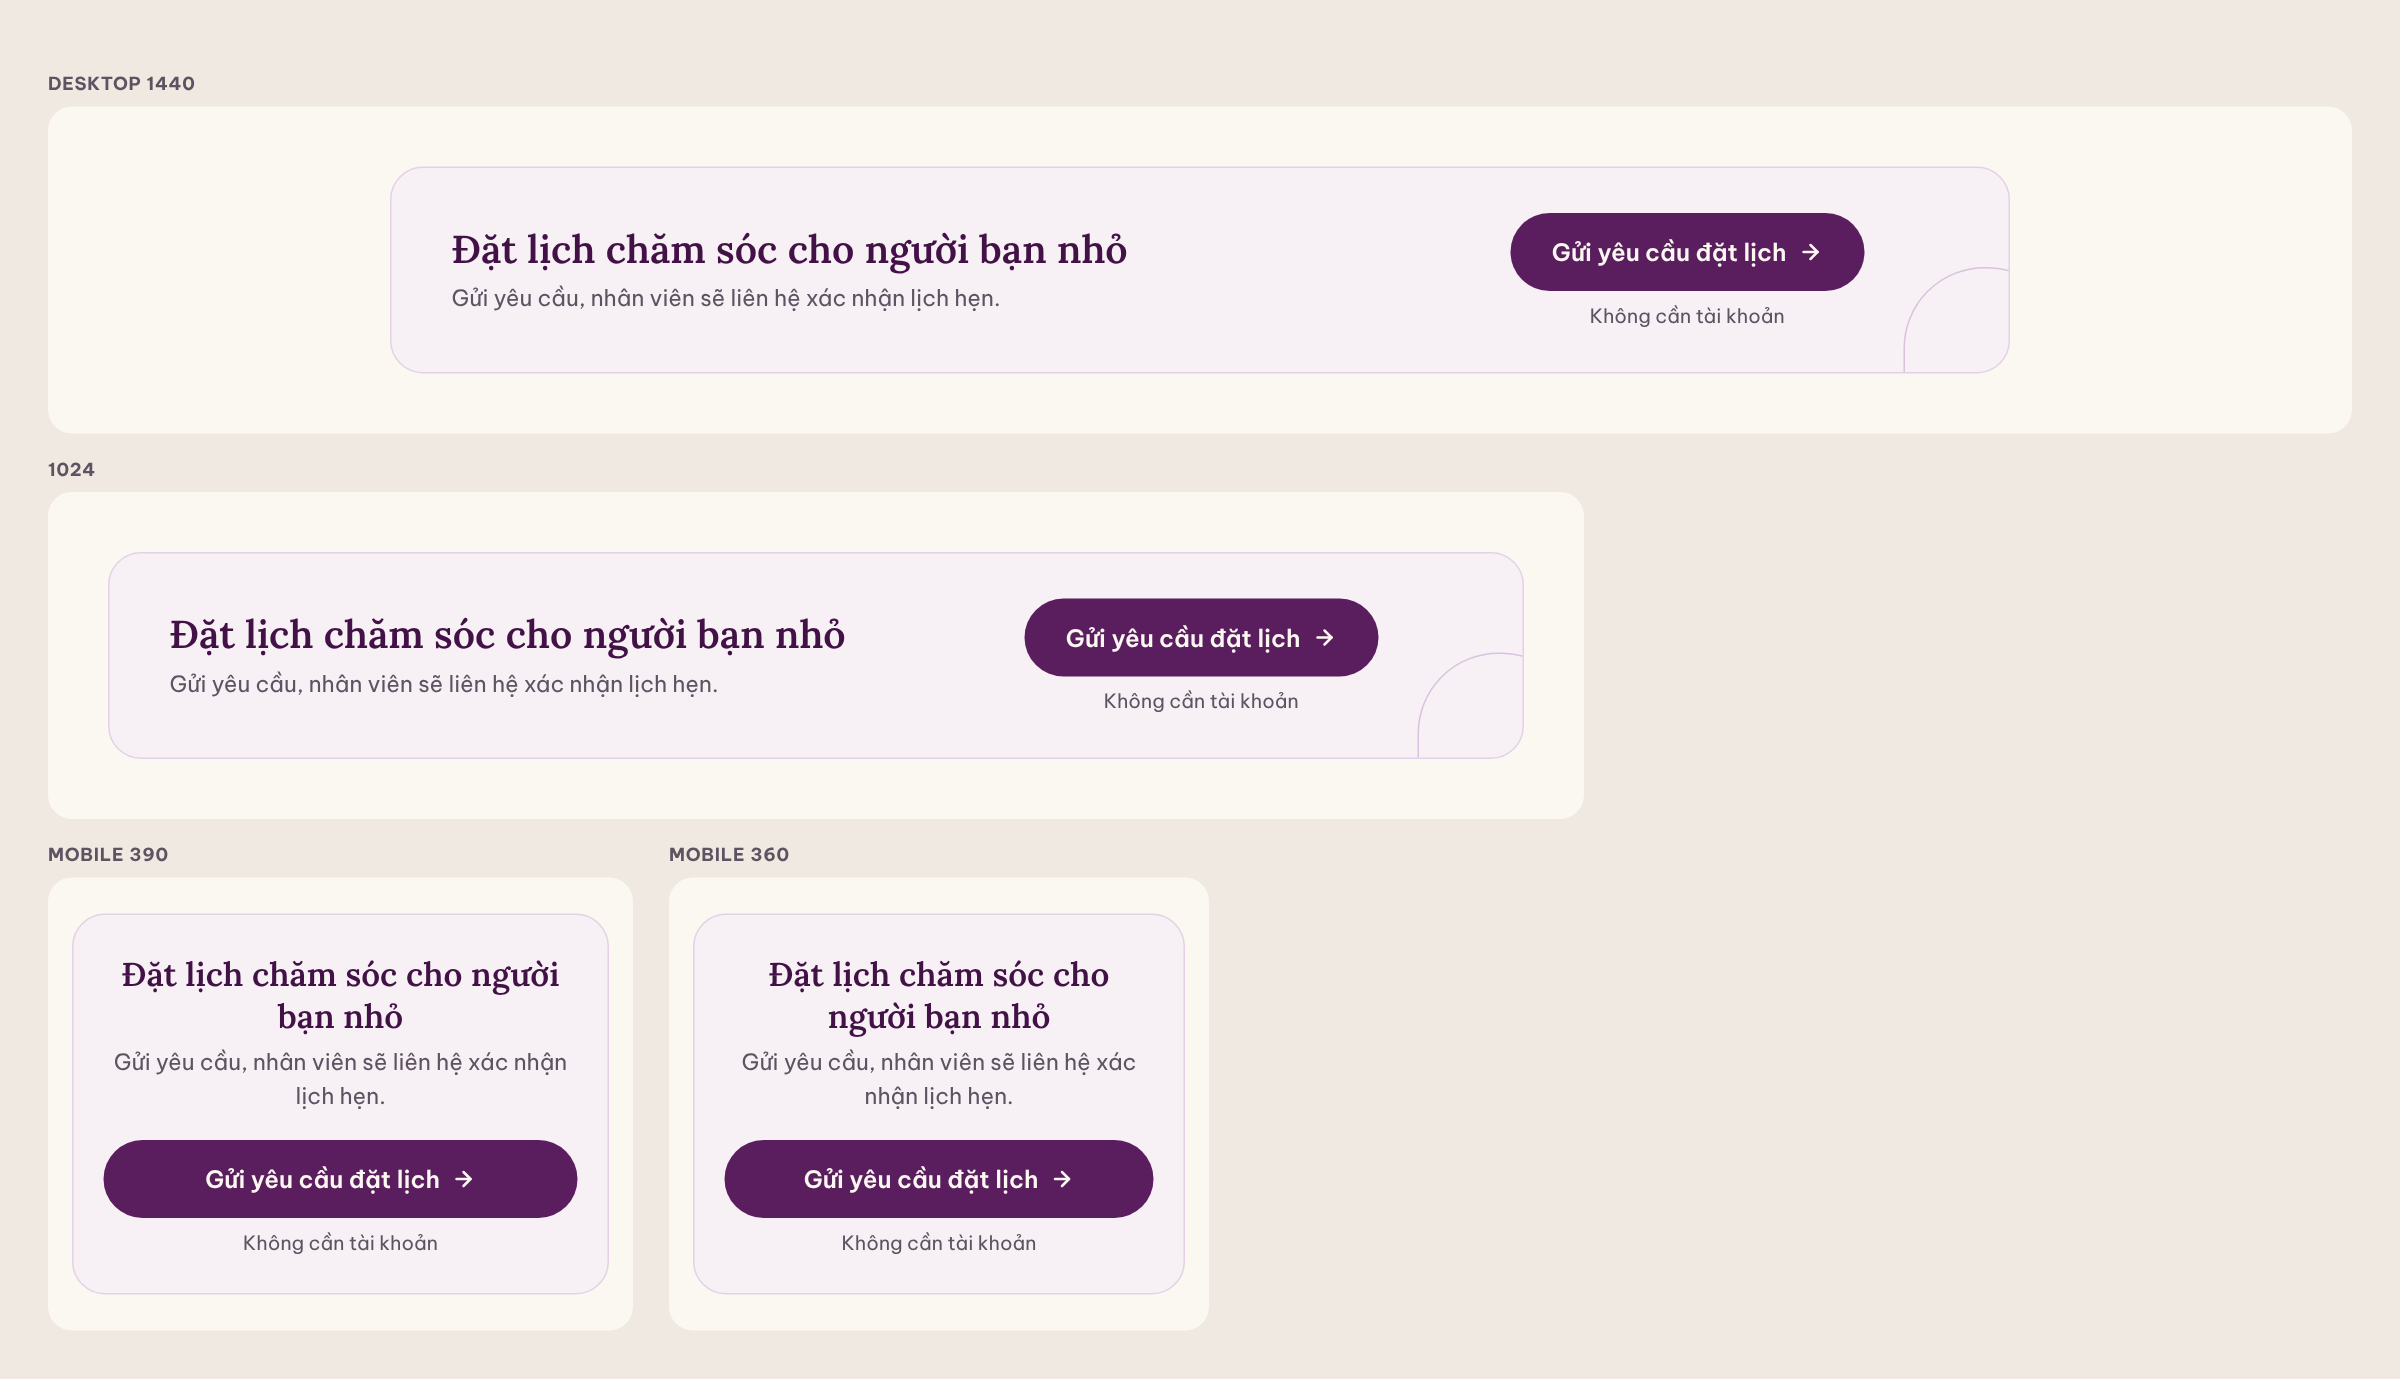
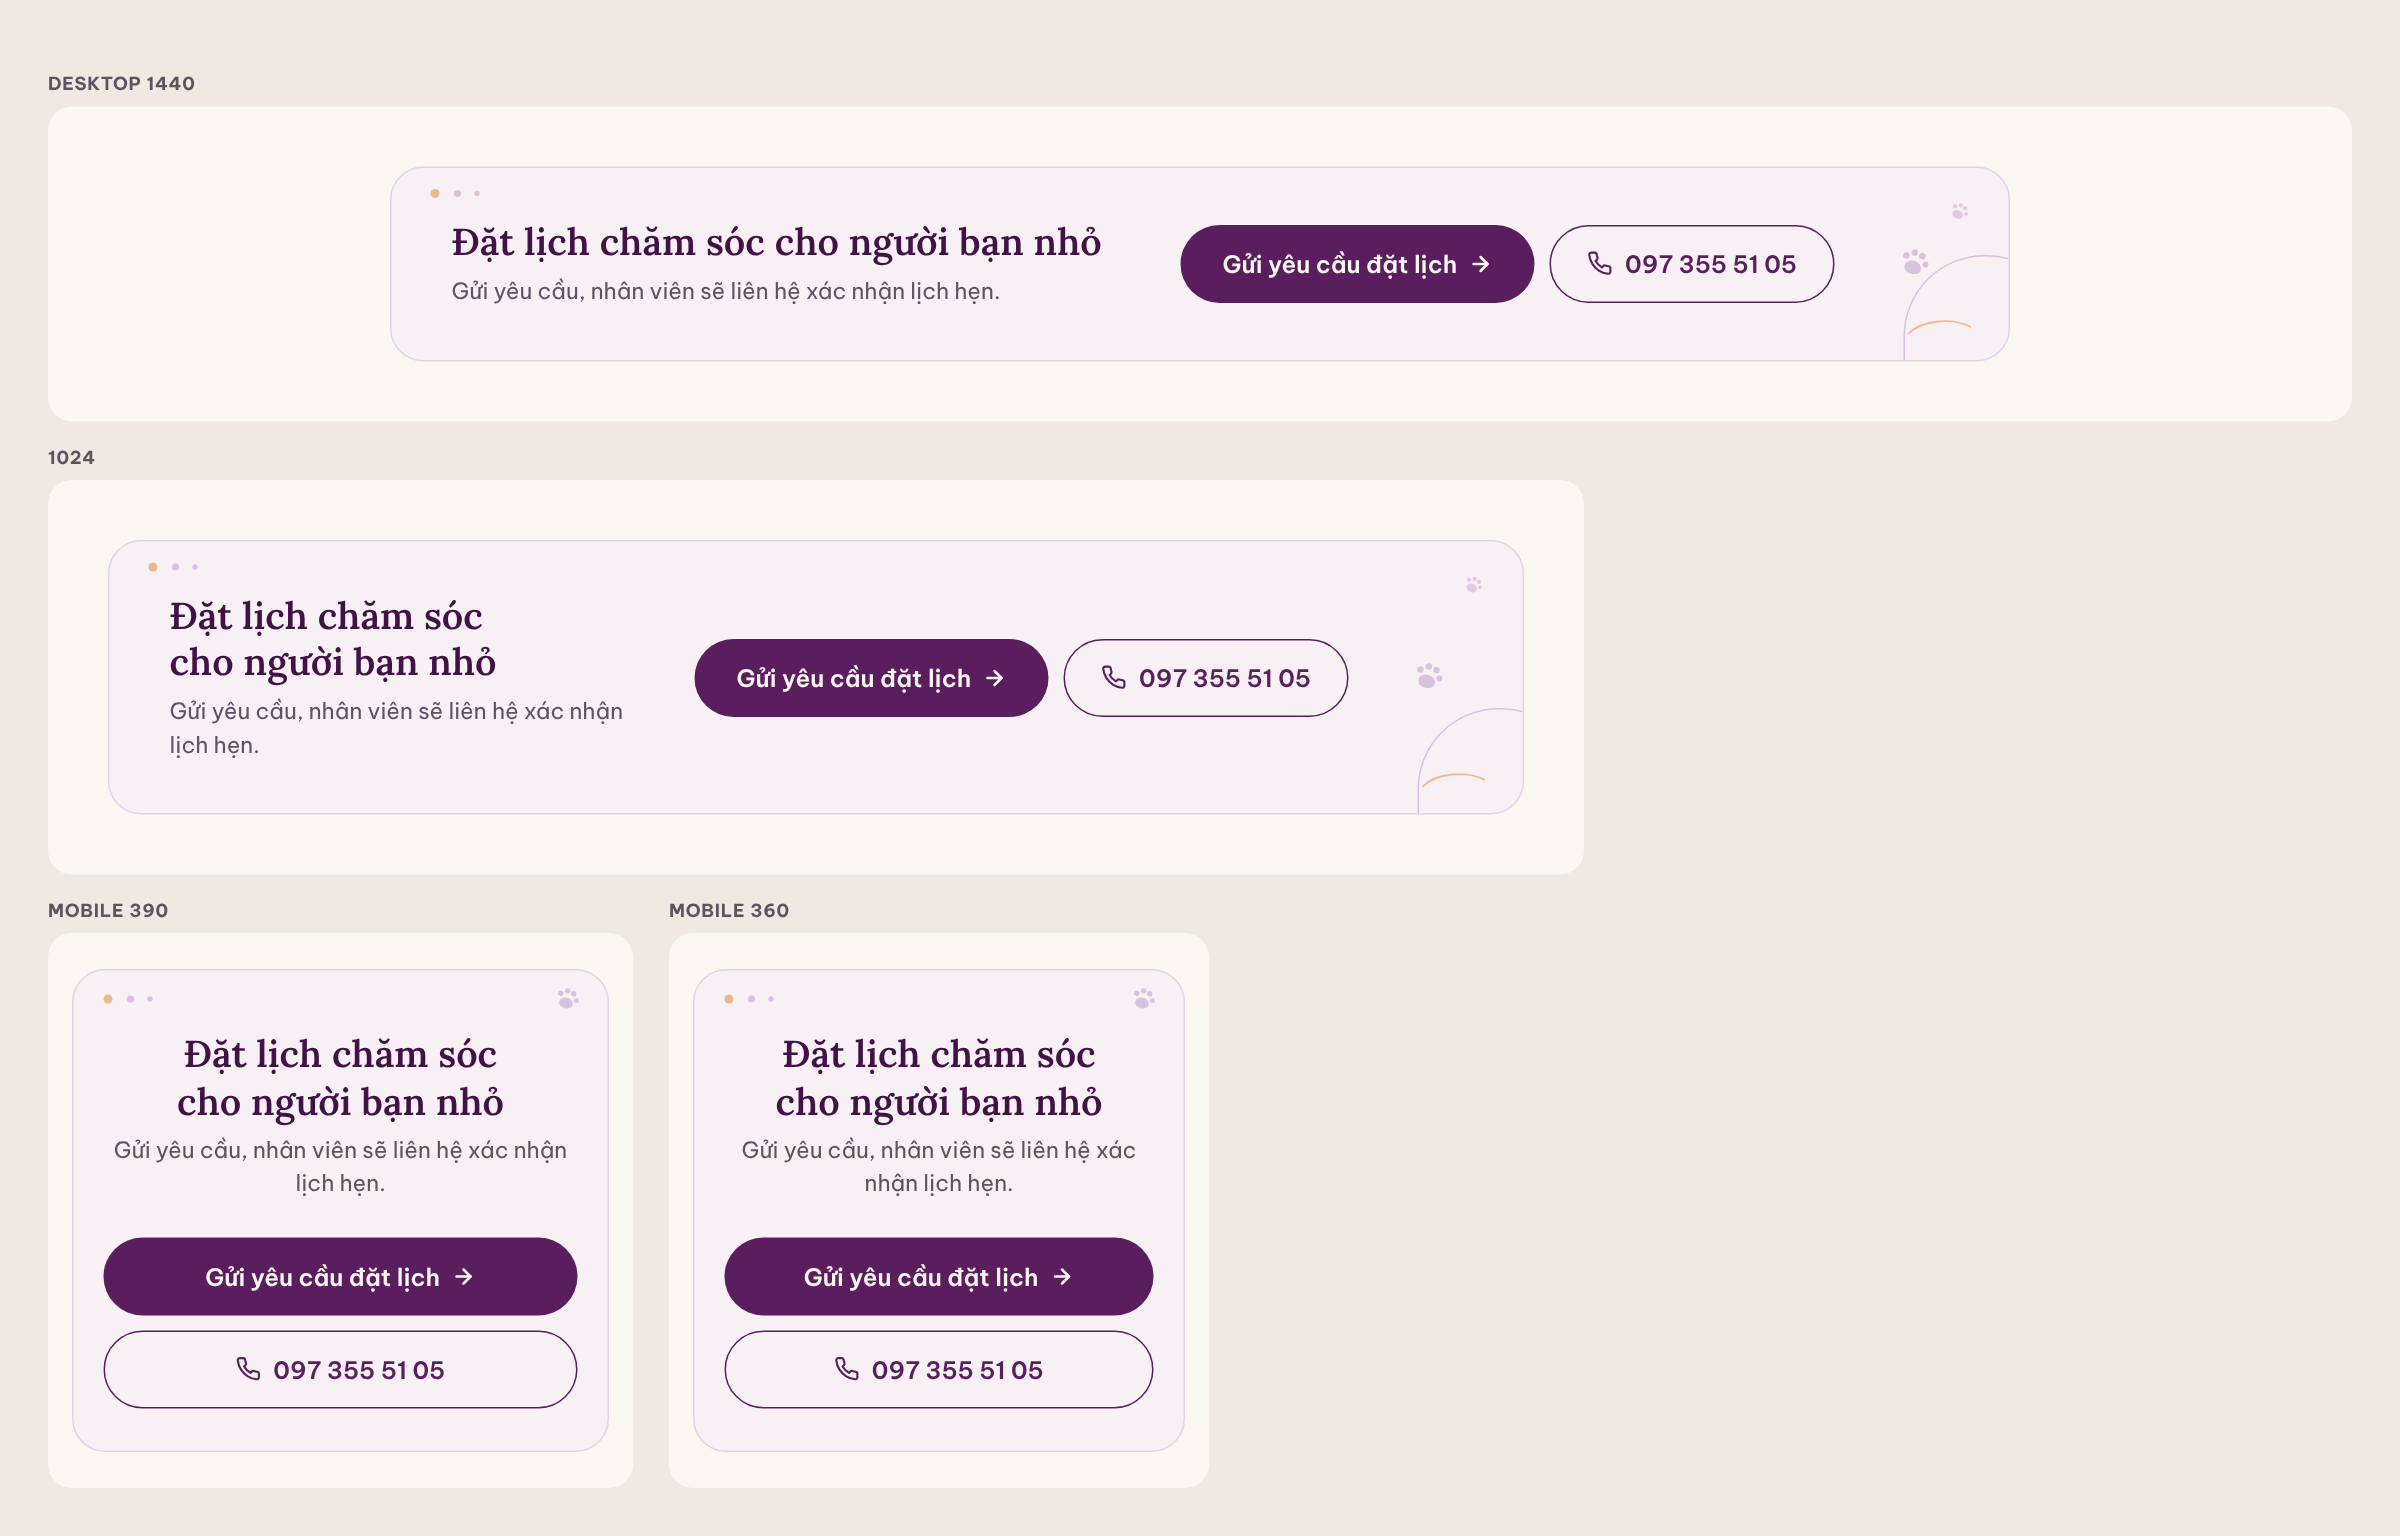
docs: minh hoa CTA Dich vu cap nhat (bo ghi chu, them nut Goi, diem trang tri nho)
Claude-Session: https://claude.ai/code/session_01RdR2xeeUL4Rz15FkyvBsuM

diff --git a/docs/de-xuat-cta-dich-vu/cta-chot-15-10.html b/docs/de-xuat-cta-dich-vu/cta-chot-15-10.html
@@ -20,9 +20,22 @@
 .cta-btn:focus-visible{outline:3px solid var(--pd);outline-offset:3px}
 .cta-note{font-size:13px;color:var(--sub)}
 @container (max-width:700px){.cta{flex-direction:column;align-items:stretch;text-align:center;padding:26px 20px;gap:18px}.cta-title{font-size:22px}.cta-act{margin-right:0}.cta-btn{width:100%;min-height:52px}.cta::after{display:none}}
+.cta-act{flex-direction:row!important;align-items:center}
+.cta-btn2{display:inline-flex;align-items:center;justify-content:center;gap:8px;min-height:52px;padding:0 24px;border-radius:999px;border:1.5px solid var(--p);color:var(--p);background:transparent;font-weight:600;font-size:16px;text-decoration:none;white-space:nowrap;transition:background .2s}
+.cta-btn2 svg{width:17px;height:17px}
+@media(hover:hover){.cta-btn2:hover{background:rgba(90,30,94,.06)}}
+.cta-btn2:focus-visible{outline:3px solid var(--pd);outline-offset:3px}
+.deco{position:absolute;pointer-events:none;z-index:0}
+.deco-paw{right:52px;top:50%;margin-top:-12px;width:22px;fill:#D9C2DD;transform:rotate(14deg)}
+.deco-paw.s{right:26px;top:22px;margin-top:0;width:14px;transform:rotate(24deg);opacity:.8}
+.deco-dots{left:24px;top:12px;width:46px;height:10px}
+.deco-arc{right:24px;bottom:16px;width:44px;height:14px}
+.cta{padding-top:34px!important;padding-bottom:34px!important}
+.cta-act{margin-right:76px!important;gap:10px!important}.cta-text{flex:1}.cta-title{font-size:25px!important;text-wrap:balance}.cta{gap:24px!important}
+@container (max-width:700px){.cta{padding-top:40px!important;padding-bottom:28px!important}.cta-act{flex-direction:column!important;align-items:stretch;margin-right:0!important}.cta-btn2{width:100%}.deco-dots{left:18px;top:14px}.deco-paw{right:18px;top:10px;margin-top:0;width:18px}.deco-paw.s,.deco-arc{display:none}}
 </style></head><body>
-<p class="label">DESKTOP 1440</p><div class="frame"><section class="cta" aria-labelledby="ct1"><div class="cta-text"><h2 class="cta-title" id="ct1">Đặt lịch chăm sóc cho người bạn nhỏ</h2><p class="cta-desc">Gửi yêu cầu, nhân viên sẽ liên hệ xác nhận lịch hẹn.</p></div><div class="cta-act"><a class="cta-btn" href="index.html#form-dat-lich">Gửi yêu cầu đặt lịch<svg viewBox="0 0 24 24" fill="none" stroke="currentColor" stroke-width="2.5" stroke-linecap="round" stroke-linejoin="round" aria-hidden="true"><line x1="5" y1="12" x2="19" y2="12"/><polyline points="12 5 19 12 12 19"/></svg></a><span class="cta-note">Không cần tài khoản</span></div></section></div>
-<p class="label">1024</p><div class="frame t"><section class="cta"><div class="cta-text"><h2 class="cta-title">Đặt lịch chăm sóc cho người bạn nhỏ</h2><p class="cta-desc">Gửi yêu cầu, nhân viên sẽ liên hệ xác nhận lịch hẹn.</p></div><div class="cta-act"><a class="cta-btn" href="index.html#form-dat-lich">Gửi yêu cầu đặt lịch<svg viewBox="0 0 24 24" fill="none" stroke="currentColor" stroke-width="2.5" stroke-linecap="round" stroke-linejoin="round"><line x1="5" y1="12" x2="19" y2="12"/><polyline points="12 5 19 12 12 19"/></svg></a><span class="cta-note">Không cần tài khoản</span></div></section></div>
-<div style="display:flex;gap:24px"><div><p class="label">MOBILE 390</p><div class="frame m"><section class="cta"><div class="cta-text"><h2 class="cta-title">Đặt lịch chăm sóc cho người bạn nhỏ</h2><p class="cta-desc">Gửi yêu cầu, nhân viên sẽ liên hệ xác nhận lịch hẹn.</p></div><div class="cta-act"><a class="cta-btn" href="index.html#form-dat-lich">Gửi yêu cầu đặt lịch<svg viewBox="0 0 24 24" fill="none" stroke="currentColor" stroke-width="2.5" stroke-linecap="round" stroke-linejoin="round"><line x1="5" y1="12" x2="19" y2="12"/><polyline points="12 5 19 12 12 19"/></svg></a><span class="cta-note">Không cần tài khoản</span></div></section></div></div>
-<div><p class="label">MOBILE 360</p><div class="frame m360"><section class="cta"><div class="cta-text"><h2 class="cta-title">Đặt lịch chăm sóc cho người bạn nhỏ</h2><p class="cta-desc">Gửi yêu cầu, nhân viên sẽ liên hệ xác nhận lịch hẹn.</p></div><div class="cta-act"><a class="cta-btn" href="index.html#form-dat-lich">Gửi yêu cầu đặt lịch<svg viewBox="0 0 24 24" fill="none" stroke="currentColor" stroke-width="2.5" stroke-linecap="round" stroke-linejoin="round"><line x1="5" y1="12" x2="19" y2="12"/><polyline points="12 5 19 12 12 19"/></svg></a><span class="cta-note">Không cần tài khoản</span></div></section></div></div></div>
+<p class="label">DESKTOP 1440</p><div class="frame"><section class="cta" aria-labelledby="ct1"><svg class="deco deco-paw" viewBox="0 0 40 40" aria-hidden="true"><circle cx="9" cy="14" r="4"/><circle cx="18" cy="8" r="4"/><circle cx="28" cy="10" r="4"/><circle cx="34" cy="19" r="3.6"/><path d="M20 18c-6 0-11 4-10 10 1 4 5 6 10 6s9-2 10-6c1-6-4-10-10-10z"/></svg><svg class="deco deco-paw s" viewBox="0 0 40 40" aria-hidden="true"><circle cx="9" cy="14" r="4"/><circle cx="18" cy="8" r="4"/><circle cx="28" cy="10" r="4"/><circle cx="34" cy="19" r="3.6"/><path d="M20 18c-6 0-11 4-10 10 1 4 5 6 10 6s9-2 10-6c1-6-4-10-10-10z"/></svg><svg class="deco deco-dots" viewBox="0 0 46 10" aria-hidden="true"><circle cx="5" cy="5" r="3" fill="#E9B98F"/><circle cx="20" cy="5" r="2.4" fill="#D9C2DD"/><circle cx="33" cy="5" r="1.8" fill="#D9C2DD"/></svg><svg class="deco deco-arc" viewBox="0 0 58 18" fill="none" aria-hidden="true"><path d="M2 16C14 4 40 2 56 10" stroke="#F2B98F" stroke-width="1.6" stroke-linecap="round"/></svg><div class="cta-text"><h2 class="cta-title" id="ct1">Đặt lịch chăm sóc cho người bạn nhỏ</h2><p class="cta-desc">Gửi yêu cầu, nhân viên sẽ liên hệ xác nhận lịch hẹn.</p></div><div class="cta-act"><a class="cta-btn" href="index.html#form-dat-lich">Gửi yêu cầu đặt lịch<svg viewBox="0 0 24 24" fill="none" stroke="currentColor" stroke-width="2.5" stroke-linecap="round" stroke-linejoin="round" aria-hidden="true"><line x1="5" y1="12" x2="19" y2="12"/><polyline points="12 5 19 12 12 19"/></svg></a><a class="cta-btn2" href="tel:+84973555105" aria-label="Gọi 097 355 51 05"><svg viewBox="0 0 24 24" fill="none" stroke="currentColor" stroke-width="2" stroke-linecap="round" stroke-linejoin="round" aria-hidden="true"><path d="M22 16.92v3a2 2 0 0 1-2.18 2 19.79 19.79 0 0 1-8.63-3.07 19.5 19.5 0 0 1-6-6 19.79 19.79 0 0 1-3.07-8.67A2 2 0 0 1 4.11 2h3a2 2 0 0 1 2 1.72 12.84 12.84 0 0 0 .7 2.81 2 2 0 0 1-.45 2.11L8.09 9.91a16 16 0 0 0 6 6l1.27-1.27a2 2 0 0 1 2.11-.45 12.84 12.84 0 0 0 2.81.7A2 2 0 0 1 22 16.92z"/></svg>097 355 51 05</a></div></section></div>
+<p class="label">1024</p><div class="frame t"><section class="cta"><svg class="deco deco-paw" viewBox="0 0 40 40" aria-hidden="true"><circle cx="9" cy="14" r="4"/><circle cx="18" cy="8" r="4"/><circle cx="28" cy="10" r="4"/><circle cx="34" cy="19" r="3.6"/><path d="M20 18c-6 0-11 4-10 10 1 4 5 6 10 6s9-2 10-6c1-6-4-10-10-10z"/></svg><svg class="deco deco-paw s" viewBox="0 0 40 40" aria-hidden="true"><circle cx="9" cy="14" r="4"/><circle cx="18" cy="8" r="4"/><circle cx="28" cy="10" r="4"/><circle cx="34" cy="19" r="3.6"/><path d="M20 18c-6 0-11 4-10 10 1 4 5 6 10 6s9-2 10-6c1-6-4-10-10-10z"/></svg><svg class="deco deco-dots" viewBox="0 0 46 10" aria-hidden="true"><circle cx="5" cy="5" r="3" fill="#E9B98F"/><circle cx="20" cy="5" r="2.4" fill="#D9C2DD"/><circle cx="33" cy="5" r="1.8" fill="#D9C2DD"/></svg><svg class="deco deco-arc" viewBox="0 0 58 18" fill="none" aria-hidden="true"><path d="M2 16C14 4 40 2 56 10" stroke="#F2B98F" stroke-width="1.6" stroke-linecap="round"/></svg><div class="cta-text"><h2 class="cta-title">Đặt lịch chăm sóc cho người bạn nhỏ</h2><p class="cta-desc">Gửi yêu cầu, nhân viên sẽ liên hệ xác nhận lịch hẹn.</p></div><div class="cta-act"><a class="cta-btn" href="index.html#form-dat-lich">Gửi yêu cầu đặt lịch<svg viewBox="0 0 24 24" fill="none" stroke="currentColor" stroke-width="2.5" stroke-linecap="round" stroke-linejoin="round"><line x1="5" y1="12" x2="19" y2="12"/><polyline points="12 5 19 12 12 19"/></svg></a><a class="cta-btn2" href="tel:+84973555105" aria-label="Gọi 097 355 51 05"><svg viewBox="0 0 24 24" fill="none" stroke="currentColor" stroke-width="2" stroke-linecap="round" stroke-linejoin="round" aria-hidden="true"><path d="M22 16.92v3a2 2 0 0 1-2.18 2 19.79 19.79 0 0 1-8.63-3.07 19.5 19.5 0 0 1-6-6 19.79 19.79 0 0 1-3.07-8.67A2 2 0 0 1 4.11 2h3a2 2 0 0 1 2 1.72 12.84 12.84 0 0 0 .7 2.81 2 2 0 0 1-.45 2.11L8.09 9.91a16 16 0 0 0 6 6l1.27-1.27a2 2 0 0 1 2.11-.45 12.84 12.84 0 0 0 2.81.7A2 2 0 0 1 22 16.92z"/></svg>097 355 51 05</a></div></section></div>
+<div style="display:flex;gap:24px"><div><p class="label">MOBILE 390</p><div class="frame m"><section class="cta"><svg class="deco deco-paw" viewBox="0 0 40 40" aria-hidden="true"><circle cx="9" cy="14" r="4"/><circle cx="18" cy="8" r="4"/><circle cx="28" cy="10" r="4"/><circle cx="34" cy="19" r="3.6"/><path d="M20 18c-6 0-11 4-10 10 1 4 5 6 10 6s9-2 10-6c1-6-4-10-10-10z"/></svg><svg class="deco deco-paw s" viewBox="0 0 40 40" aria-hidden="true"><circle cx="9" cy="14" r="4"/><circle cx="18" cy="8" r="4"/><circle cx="28" cy="10" r="4"/><circle cx="34" cy="19" r="3.6"/><path d="M20 18c-6 0-11 4-10 10 1 4 5 6 10 6s9-2 10-6c1-6-4-10-10-10z"/></svg><svg class="deco deco-dots" viewBox="0 0 46 10" aria-hidden="true"><circle cx="5" cy="5" r="3" fill="#E9B98F"/><circle cx="20" cy="5" r="2.4" fill="#D9C2DD"/><circle cx="33" cy="5" r="1.8" fill="#D9C2DD"/></svg><svg class="deco deco-arc" viewBox="0 0 58 18" fill="none" aria-hidden="true"><path d="M2 16C14 4 40 2 56 10" stroke="#F2B98F" stroke-width="1.6" stroke-linecap="round"/></svg><div class="cta-text"><h2 class="cta-title">Đặt lịch chăm sóc cho người bạn nhỏ</h2><p class="cta-desc">Gửi yêu cầu, nhân viên sẽ liên hệ xác nhận lịch hẹn.</p></div><div class="cta-act"><a class="cta-btn" href="index.html#form-dat-lich">Gửi yêu cầu đặt lịch<svg viewBox="0 0 24 24" fill="none" stroke="currentColor" stroke-width="2.5" stroke-linecap="round" stroke-linejoin="round"><line x1="5" y1="12" x2="19" y2="12"/><polyline points="12 5 19 12 12 19"/></svg></a><a class="cta-btn2" href="tel:+84973555105" aria-label="Gọi 097 355 51 05"><svg viewBox="0 0 24 24" fill="none" stroke="currentColor" stroke-width="2" stroke-linecap="round" stroke-linejoin="round" aria-hidden="true"><path d="M22 16.92v3a2 2 0 0 1-2.18 2 19.79 19.79 0 0 1-8.63-3.07 19.5 19.5 0 0 1-6-6 19.79 19.79 0 0 1-3.07-8.67A2 2 0 0 1 4.11 2h3a2 2 0 0 1 2 1.72 12.84 12.84 0 0 0 .7 2.81 2 2 0 0 1-.45 2.11L8.09 9.91a16 16 0 0 0 6 6l1.27-1.27a2 2 0 0 1 2.11-.45 12.84 12.84 0 0 0 2.81.7A2 2 0 0 1 22 16.92z"/></svg>097 355 51 05</a></div></section></div></div>
+<div><p class="label">MOBILE 360</p><div class="frame m360"><section class="cta"><svg class="deco deco-paw" viewBox="0 0 40 40" aria-hidden="true"><circle cx="9" cy="14" r="4"/><circle cx="18" cy="8" r="4"/><circle cx="28" cy="10" r="4"/><circle cx="34" cy="19" r="3.6"/><path d="M20 18c-6 0-11 4-10 10 1 4 5 6 10 6s9-2 10-6c1-6-4-10-10-10z"/></svg><svg class="deco deco-paw s" viewBox="0 0 40 40" aria-hidden="true"><circle cx="9" cy="14" r="4"/><circle cx="18" cy="8" r="4"/><circle cx="28" cy="10" r="4"/><circle cx="34" cy="19" r="3.6"/><path d="M20 18c-6 0-11 4-10 10 1 4 5 6 10 6s9-2 10-6c1-6-4-10-10-10z"/></svg><svg class="deco deco-dots" viewBox="0 0 46 10" aria-hidden="true"><circle cx="5" cy="5" r="3" fill="#E9B98F"/><circle cx="20" cy="5" r="2.4" fill="#D9C2DD"/><circle cx="33" cy="5" r="1.8" fill="#D9C2DD"/></svg><svg class="deco deco-arc" viewBox="0 0 58 18" fill="none" aria-hidden="true"><path d="M2 16C14 4 40 2 56 10" stroke="#F2B98F" stroke-width="1.6" stroke-linecap="round"/></svg><div class="cta-text"><h2 class="cta-title">Đặt lịch chăm sóc cho người bạn nhỏ</h2><p class="cta-desc">Gửi yêu cầu, nhân viên sẽ liên hệ xác nhận lịch hẹn.</p></div><div class="cta-act"><a class="cta-btn" href="index.html#form-dat-lich">Gửi yêu cầu đặt lịch<svg viewBox="0 0 24 24" fill="none" stroke="currentColor" stroke-width="2.5" stroke-linecap="round" stroke-linejoin="round"><line x1="5" y1="12" x2="19" y2="12"/><polyline points="12 5 19 12 12 19"/></svg></a><a class="cta-btn2" href="tel:+84973555105" aria-label="Gọi 097 355 51 05"><svg viewBox="0 0 24 24" fill="none" stroke="currentColor" stroke-width="2" stroke-linecap="round" stroke-linejoin="round" aria-hidden="true"><path d="M22 16.92v3a2 2 0 0 1-2.18 2 19.79 19.79 0 0 1-8.63-3.07 19.5 19.5 0 0 1-6-6 19.79 19.79 0 0 1-3.07-8.67A2 2 0 0 1 4.11 2h3a2 2 0 0 1 2 1.72 12.84 12.84 0 0 0 .7 2.81 2 2 0 0 1-.45 2.11L8.09 9.91a16 16 0 0 0 6 6l1.27-1.27a2 2 0 0 1 2.11-.45 12.84 12.84 0 0 0 2.81.7A2 2 0 0 1 22 16.92z"/></svg>097 355 51 05</a></div></section></div></div></div>
 </body></html>
